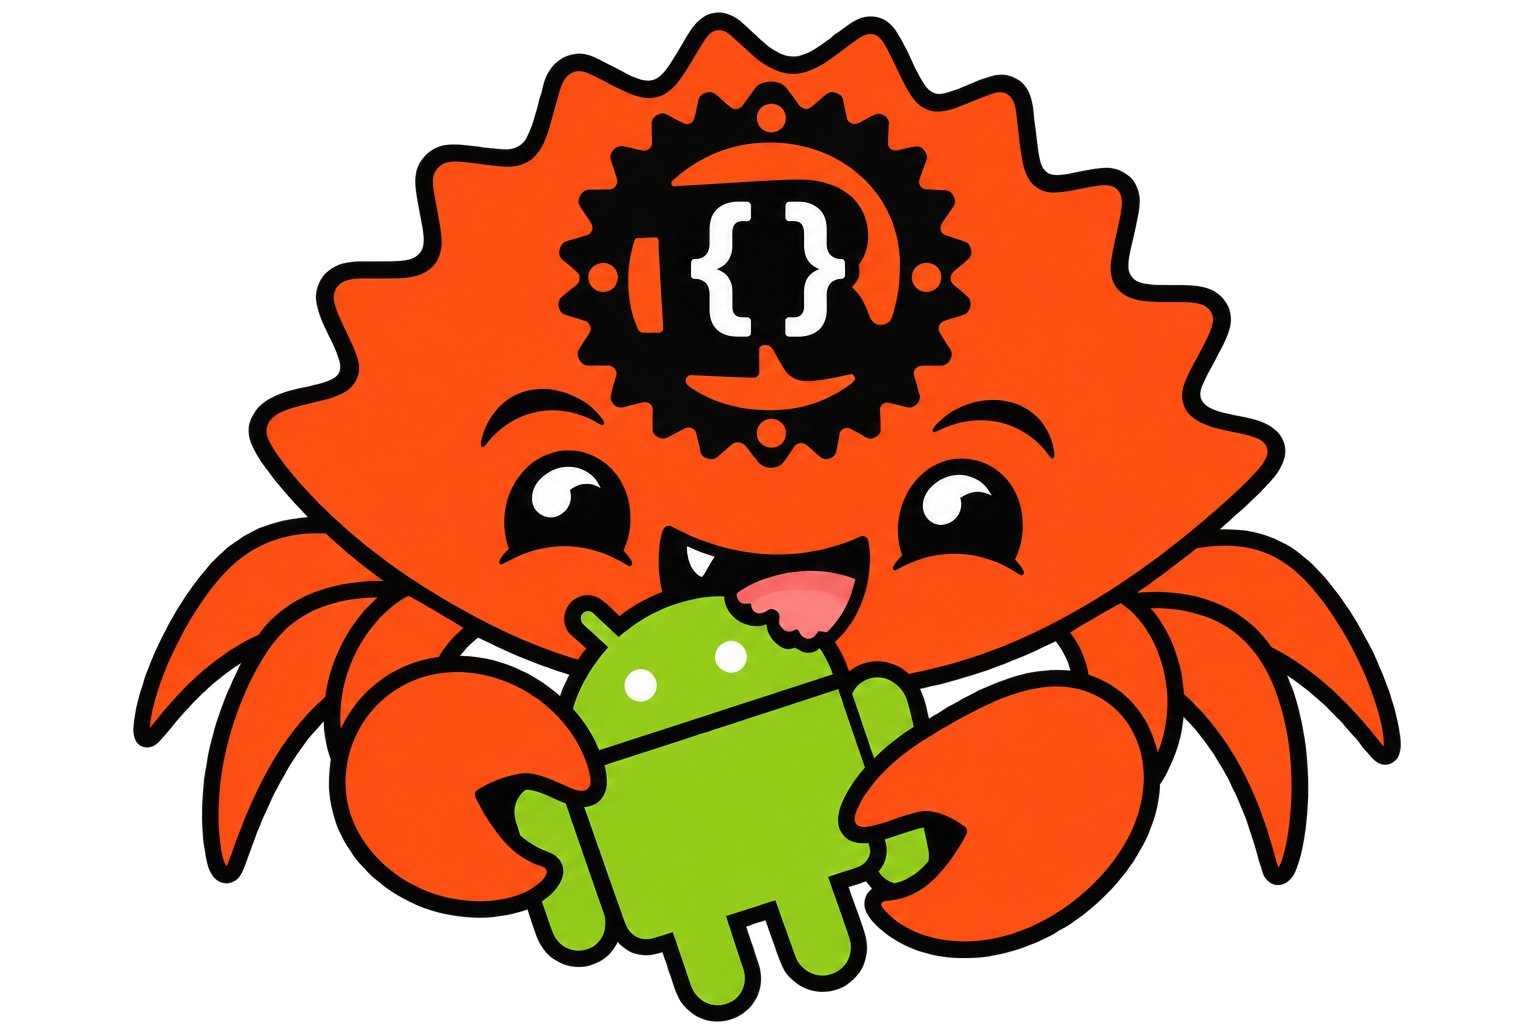
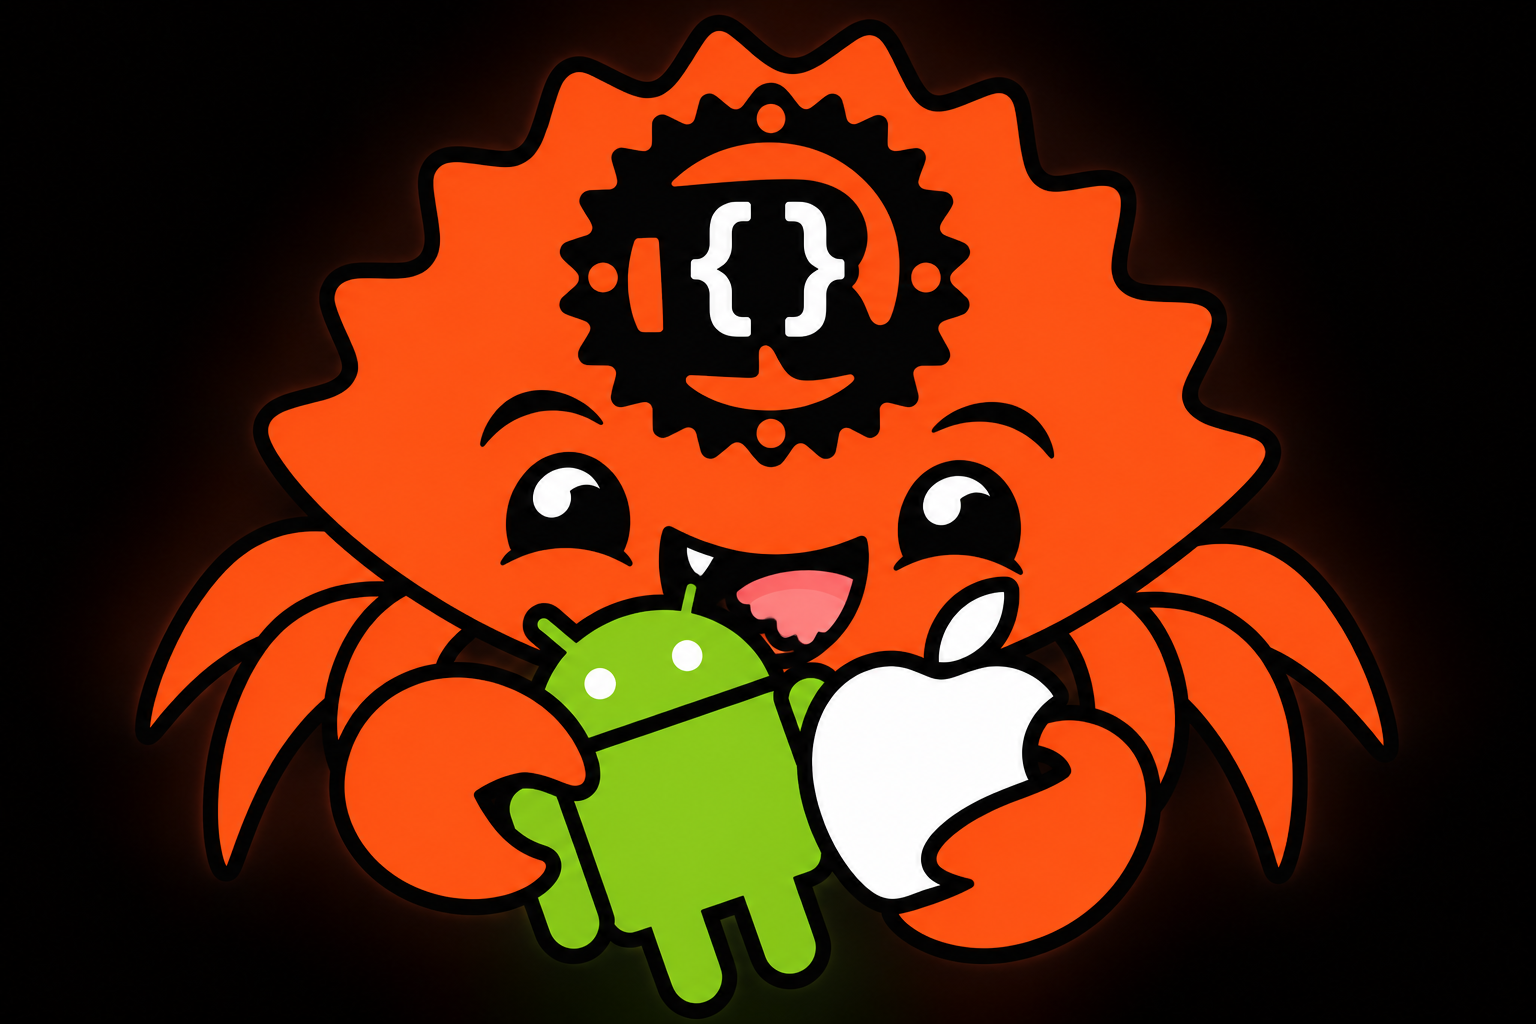
docs: refresh Infinix benchmarks and mascot

diff --git a/docs/benchmarks.md b/docs/benchmarks.md
@@ -58,6 +58,28 @@ materialized. `EquivalenceTest.allTreesAgree` maps each tree to the same plain
 
 Yalın rejects duplicate keys in a tree. Fastjson2 and Gson keep the last one.
 
+### Infinix X6833B, Android 13, 2026-11-23
+
+Release build at `a1f5740`, AOT-compiled with the `speed` filter. The phone was
+charging and the CPU clocks were unlocked. Both equivalence tests and all 52
+four-field benchmark cases passed. The ADB connection dropped after 28 full-tree
+cases returned results. Missing cases are marked with a dash. The archived
+2026-11-20 run below contains the complete 1 MB full-tree comparison.
+
+Median time (ART allocations per operation):
+
+| Scenario | 1 KB | 16 KB | 256 KB | 1 MB |
+|---|---|---|---|---|
+| **YALIN_BYTES** | 24.27 µs (77) | 260.85 µs (1,045) | 3.99 ms (17,619) | 16.00 ms (75,455) |
+| GSON_BYTES | 71.83 µs (401) | 727.22 µs (5,549) | 10.99 ms (86,533) | — |
+| MOSHI_BYTES | 69.39 µs (329) | 1.02 ms (4,823) | 16.25 ms (75,579) | — |
+| KOTLINX_BYTES | 59.06 µs (340) | 820.55 µs (4,834) | 12.33 ms (75,578) | — |
+| JACKSON_BYTES | 44.99 µs (267) | 620.54 µs (3,875) | 9.53 ms (60,536) | — |
+| FASTJSON2_BYTES | 24.15 µs (162) | 329.02 µs (2,367) | 5.66 ms (37,022) | — |
+| **YALIN_STRING** | 29.22 µs (78) | 322.03 µs (1,046) | 4.74 ms (17,620) | — |
+| KOTLINX_STRING | 51.21 µs (339) | 750.00 µs (4,833) | 11.49 ms (75,577) | — |
+| FASTJSON2_STRING | 24.57 µs (168) | 357.62 µs (2,461) | 5.66 ms (38,503) | — |
+
 ### Infinix X6833B, Android 13, 2026-11-20
 
 All 90 benchmark and equivalence tests passed in a single release run. Clocks were not
@@ -81,7 +103,28 @@ At 1 KB it is 6% slower than fastjson2. Starting from a `String` costs another 1
 because of the UTF-8 encoding, and that is still faster than fastjson2's `String` path from
 16 KB up. A separate UTF-16 parser is not justified yet.
 
-## Infinix X6833B rerun
+## Read four fields on the Infinix X6833B, 2026-11-23
+
+All 13 scenarios completed in the release run above. Median time
+(ART allocations per operation):
+
+| Scenario | 1 KB | 16 KB | 256 KB | 1 MB |
+|---|---|---|---|---|
+| **YALIN_DOCUMENT** | 10.90 µs (18) | 80.44 µs (18) | 1.25 ms (19) | 5.21 ms (19) |
+| **YALIN_PROJECT** | 10.17 µs (16) | 115.39 µs (16) | 1.81 ms (17) | 7.29 ms (17) |
+| FASTJSON2_TREE | 25.06 µs (164) | 334.58 µs (2,369) | 5.11 ms (37,024) | 19.98 ms (147,438) |
+| JACKSON_TREE | 46.96 µs (268) | 618.65 µs (3,876) | 9.94 ms (60,537) | 38.56 ms (241,138) |
+| ORGJSON_TREE | 49.77 µs (323) | 665.47 µs (4,727) | 10.27 ms (74,038) | 41.78 ms (294,914) |
+| GSON_TREE | 75.17 µs (404) | 739.05 µs (5,552) | 11.26 ms (86,536) | 44.90 ms (344,828) |
+| GSON_MODEL | 85.96 µs (233) | 796.80 µs (3,179) | 12.01 ms (49,441) | 47.45 ms (197,105) |
+| MOSHI_MODEL | 50.20 µs (164) | 734.55 µs (2,457) | 11.79 ms (38,531) | 47.56 ms (153,566) |
+| KOTLINX_TREE | 61.27 µs (349) | 828.11 µs (4,843) | 12.21 ms (75,587) | 50.20 ms (301,012) |
+| KOTLINX_MODEL | 69.53 µs (186) | 923.29 µs (2,654) | 14.30 ms (41,449) | 58.32 ms (165,086) |
+| MOSHI_TREE | 69.43 µs (330) | 1.02 ms (4,824) | 16.51 ms (75,580) | 64.52 ms (301,127) |
+| JACKSON_MODEL | 93.76 µs (415) | 1.22 ms (5,787) | 19.15 ms (90,354) | 75.96 ms (359,851) |
+| FASTJSON2_MODEL | 201.44 µs (1,145) | 2.88 ms (16,199) | 43.87 ms (254,738) | 178.61 ms (1,015,018) |
+
+## Earlier Infinix X6833B projection run
 
 In a single release run on Android 13, all 52 measurements and the equivalence
 test passed. These are median times for the two Yalın paths and the fastest
@@ -142,7 +185,7 @@ Fastest competitor again fastjson2 tree: yalin 2.4–2.5× faster at every size;
 vs Gson tree 6.6× at 1 MB. yalin ≈ 56 MB/s at 1 MB. yalin numbers match the
 earlier Gson/Moshi-only run within 1%.
 
-## Cross-device (1 MB, yalin project)
+## Cross-device baseline, 2026-11-19 (1 MB, Yalın project)
 
 | Device | SoC | yalin | fastest competitor | speedup |
 |---|---|---|---|---|

diff --git a/README.md b/README.md
@@ -1,7 +1,7 @@
 # Yalın
 
 <p align="center">
-  <img src="docs/assets/yalin-mascot.png" alt="Yalın mascot, a Rust crab holding an Android robot" width="360">
+  <img src="docs/assets/yalin-mascot.png" alt="Yalın mascot, a Rust crab holding the Android robot and Apple logo" width="360">
 </p>
 
 **Fast, strict JSON for Android, iOS and macOS, powered by a SIMD Rust parser.**
@@ -9,7 +9,7 @@
 Yalın reads UTF-8 JSON straight from a `ByteArray`. A native parser validates the input and indexes it, and your Kotlin or Java code asks for what it needs: a few fields in one call, or the whole tree as immutable Kotlin values.
 
 <p align="center">
-  <img src="docs/assets/bench-project.svg" alt="Reading 4 fields from a 1 MB JSON: Yalın 6.47 ms, fastjson2 22.07 ms, Jackson 39.02 ms, org.json 43.42 ms, Gson 44.74 ms, kotlinx 53.77 ms, Moshi 66.5 ms" width="760">
+  <img src="docs/assets/bench-project.svg" alt="Reading 4 fields from a 1 MB JSON: Yalın 7.29 ms, fastjson2 19.98 ms, Jackson 38.56 ms, org.json 41.78 ms, Gson 44.90 ms, kotlinx 50.20 ms, Moshi 64.52 ms" width="760">
 </p>
 
 ## Why Yalın
@@ -136,16 +136,16 @@ Every library starts from the same UTF-8 `ByteArray` and validates the whole inp
   <img src="docs/assets/bench-alloc.svg" alt="Allocations for a full 1 MB tree: Yalın 79.3k, fastjson2 149.1k, Jackson 243.9k, kotlinx 304.4k, Moshi 304.5k, Gson 348.5k" width="760">
 </p>
 
-Yalın against the fastest other library (fastjson2) at each size:
+Yalın against the fastest other tree API at each size:
 
-| Input | Read 4 fields | Full tree |
+| Input | Read 4 fields (2026-11-23) | Full tree (2026-11-20) |
 |---|---:|---:|
-| 1 KB | **2.6×** faster | 6% slower |
-| 16 KB | **4.6×** faster | **1.3×** faster |
-| 256 KB | **4.6×** faster | **1.4×** faster |
-| 1 MB | **3.4×** faster | **1.3×** faster |
+| 1 KB | **2.5×** faster | 6% slower |
+| 16 KB | **2.9×** faster | **1.3×** faster |
+| 256 KB | **2.8×** faster | **1.4×** faster |
+| 1 MB | **2.7×** faster | **1.3×** faster |
 
-Measured with AndroidX Microbenchmark on an Infinix X6833B (Helio G99, Android 13), release build. Gson, Moshi, kotlinx.serialization, Jackson, fastjson2 and `org.json` were tested. The full numbers, an Exynos 7904 phone and the parser-only results are in [Android benchmarks](docs/benchmarks.md) and [Rust benchmarks](docs/core-benchmarks.md).
+Measured with AndroidX Microbenchmark on an Infinix X6833B (Helio G99, Android 13), release build. The full-tree charts use the complete 2026-11-20 run. The 2026-11-23 full-tree rerun ended early after an ADB disconnect. The full numbers, an Exynos 7904 phone and the parser-only results are in [Android benchmarks](docs/benchmarks.md) and [Rust benchmarks](docs/core-benchmarks.md).
 
 ## How it works
 
